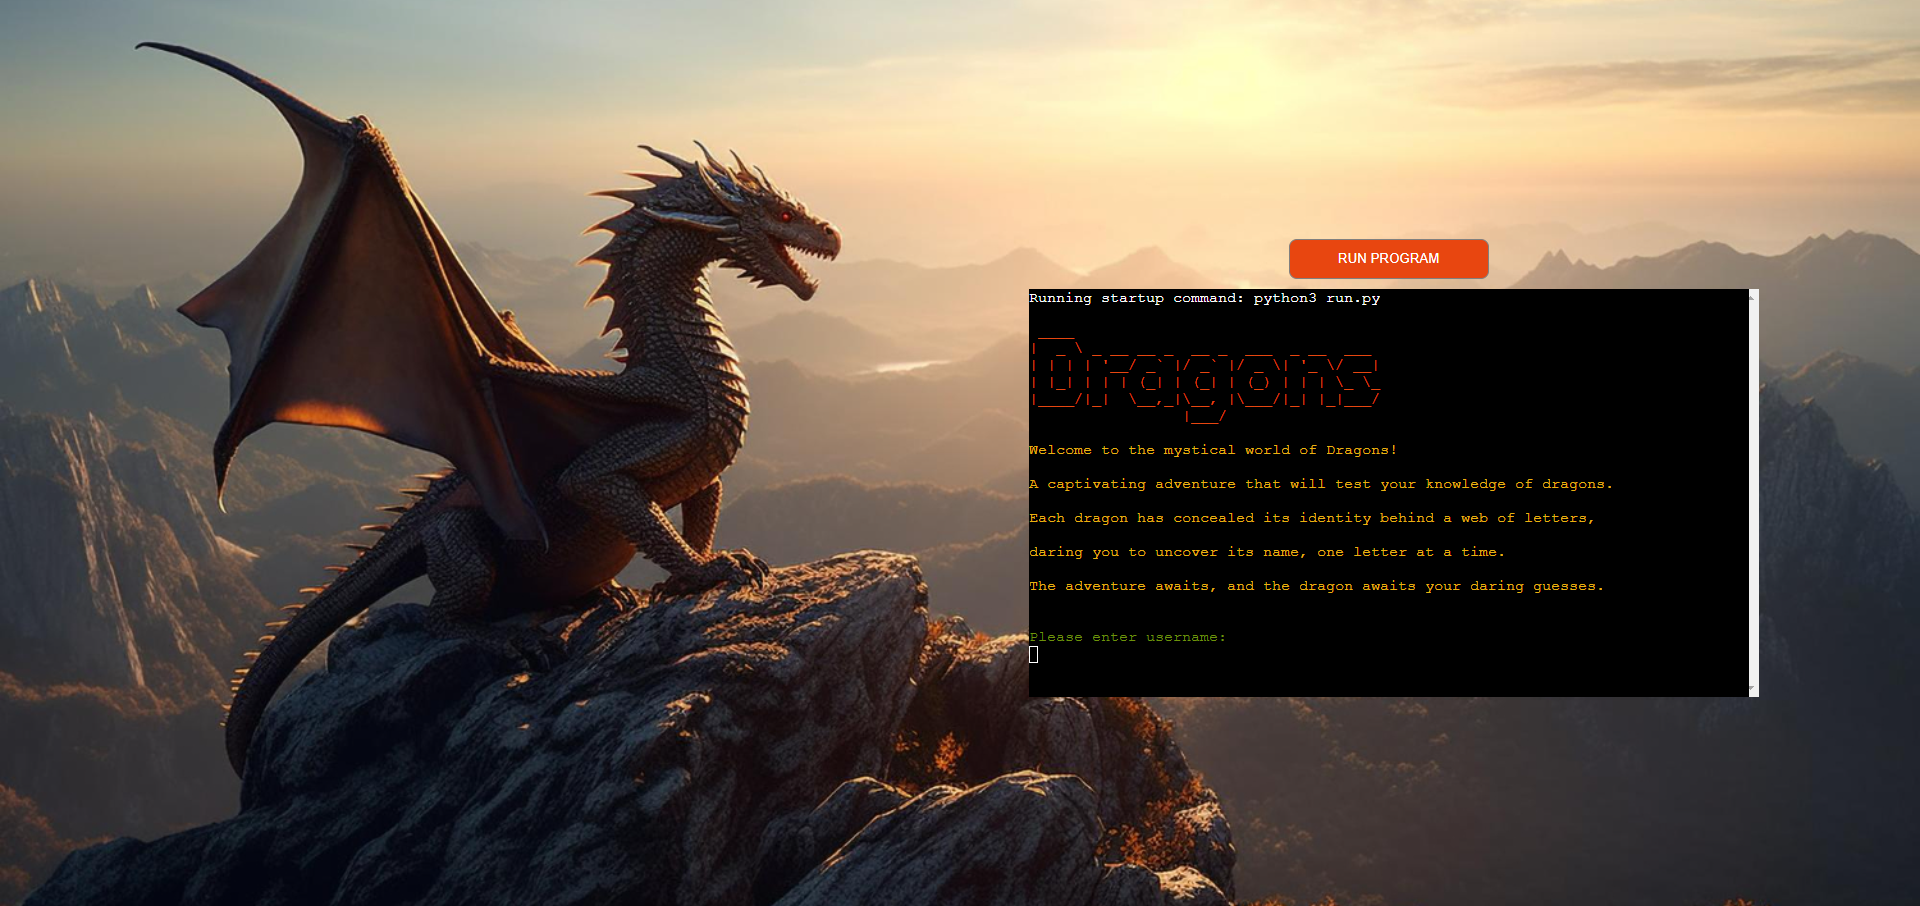
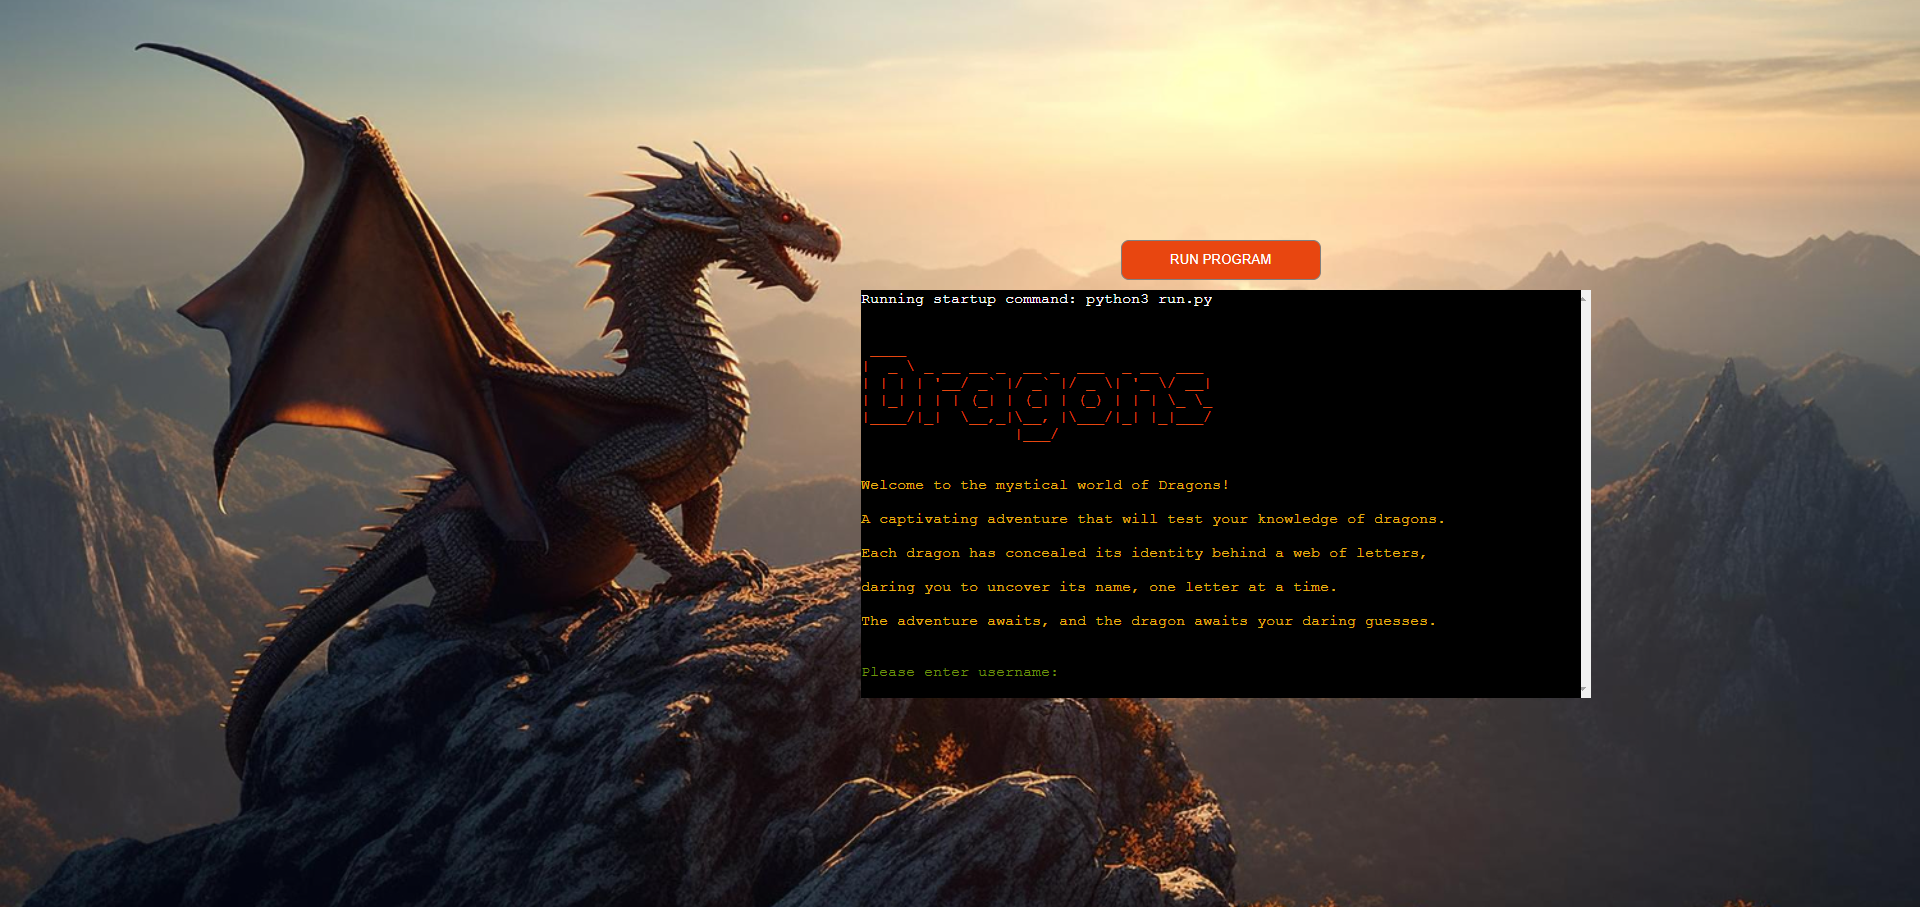
Update game rules and add to readme

diff --git a/views/layout.html b/views/layout.html
@@ -35,6 +35,7 @@
             justify-content: center;
             margin-left: 35em;
             margin-top: 0;
+            padding-left: 2em;
             position:relative
         }
 

diff --git a/run.py b/run.py
@@ -133,7 +133,7 @@ def game_rules(username):
               )
         print("")
         print(color["yellow"].apply_color
-              ("4.Guess one letter at a time")
+              ("4.Guess only one letter at a time")
               )
         print("")
         print(color["yellow"].apply_color
@@ -141,11 +141,11 @@ def game_rules(username):
               )
         print("")
         print(color["yellow"].apply_color
-              ("6.Correct guess will reveal the letter")
+              ("6.Correct guess will reveal the letter, no attempts taken off")
               )
         print("")
         print(color["yellow"].apply_color
-              ("7.Incorrect guess will add to attempt count")
+              ("7.Incorrect guess will decrease attempts by 1")
               )
         print("")
         print(color["yellow"].apply_color
@@ -321,6 +321,10 @@ def start_game(username, dragon):
     print("")
     print(color["green"].apply_color
           (f"You have {attempts} attempts to guess the name.")
+          )
+    print("")
+    print(color["green"].apply_color
+          ("Good luck!")
           )
     print("")
 

diff --git a/README.md b/README.md
@@ -57,38 +57,44 @@ I chose to create a dragon guessing game for this project inspired by my 5 year 
 
 ### **Lucidchart**
 
-I created a flowchart using [Lucidchart](https://lucid.co/?_gl=1*x824jw*_ga*MTQ0OTcxNjc5Ni4xNjk3NTYwMDUx*_ga_MPV5H3XMB5*MTY5NzYyMzg3Ny4zLjAuMTY5NzYyMzg3Ny42MC4wLjA.) website to help with a flow of the game.<br>
+I created a flowchart using [Lucidchart](https://lucid.co/?_gl=1*x824jw*_ga*MTQ0OTcxNjc5Ni4xNjk3NTYwMDUx*_ga_MPV5H3XMB5*MTY5NzYyMzg3Ny4zLjAuMTY5NzYyMzg3Ny42MC4wLjA.) website to help with a flow of the game, with some deviation during development to improve the game.<br>
+
 ![Lucidchart](docs/dragon_guessing_game.jpeg)
 
 ## **Features and Future Development**
 
 ### **Favicon**
 
-I originally created favicon using a vector from [Vecteezy](https://www.vecteezy.com/) website with an idea to recreate the look of a dragon eye and used [Faviconer](http://www.faviconer.com/) website to change it into favicon but soon after realized [Heroku](https://www.heroku.com/) doesn't host static files. During session with my mentor he explained how to use web hosted image so I used [Google](https://www.google.com/) to search for dragon's eye, I chose one from [Deviant Art](https://www.deviantart.com/christoskarapanos/art/Dragon-s-Eye-585971591) and added it succesfully to my project.
+I originally created favicon using a vector from [Vecteezy](https://www.vecteezy.com/) website with an idea to recreate the look of a dragon eye and used [Faviconer](http://www.faviconer.com/) website to change it into favicon but soon after realized [Heroku](https://www.heroku.com/) doesn't host static files. During session with my mentor he explained how to use web hosted image so I used [Google](https://www.google.com/) to search for dragon's eye and I chose one from [Deviant Art](https://www.deviantart.com/christoskarapanos/art/Dragon-s-Eye-585971591) and added it succesfully to my project.
 
 ### **Game intro**
 
-Welcomes user to 'Dragons' game with a short introduction and asks to enter username.
+Welcomes user to 'Dragons' game with a short introduction to intrigue them and asks to enter username.
+
 ![Game intro](docs/screenshots/game-intro.png)
 
 ### **Username entry / rules question**
 
 Once username has been entered correctly, asks if user would like to see the rules of the game. By entering 'yes', starts the game. If user enters 'no', returns to game intro screen.
+
 ![Username and rules](docs/screenshots/username-rules.png)
 
 ### **Username error messages**
 
-If user doesn't enter username accordingly to rules, shows error message.
+If user doesn't enter username accordingly to rules, shows appropriate error message.
+
 ![Username errors](docs/screenshots/username-errors.png)
 
 ### **Rules**
 
 Shows clearly written short rules of the game and asks if user would like to play.
+
 ![Rules](docs/screenshots/rules.png)
 
 ### **Guess messages**
 
-Shows a message after a guess is entered.
+Shows appropriate message after a guess is entered to let user know if he has guessed correct/ incorrect or input is invalid. If guess is incorrect, shows how many attempts to guess user has.
+
 ![Guess messages](docs/screenshots/guess-message.png)
 
 ### **Game won / lost**
@@ -96,19 +102,22 @@ Shows a message after a guess is entered.
 At the end, the game either congrats user or expresses sympathy for loss and shows dragon name revealed/ not guessed and it's description with a ASCII dragon art. Initially I wanted to clear the screen one game has finished before dragon name and description appears but decided to leave it as an option for user to be able to check guessing history.<br>
 
 I chose this cute and happy looking dragon ASCII art to show up when user wins the game, reminding me of a dragon from my childhood cartoon.
+
 ![Game won](docs/screenshots/game-won-ascii-art.png)
 
 This fire blowing dragon appears if user has lost the game. Be careful not to get burned to crisp!
+
 ![Game lost](docs/screenshots/game-lost-ascii-art.png)
 
 ### **Thank You message**
 
 Thanks user for visiting 'Dragons' game.
+
 ![Thank you message](docs/screenshots/thank-you-message.png)
 
 ### **Dragon ASCII art**
 
-Overall I got intrigued by ASCII art, amazingly never seen before.
+Overall I got intrigued by ASCII art, amazingly never seen before. I think together with colourful text it helped to create a visually appealing game that was my intention from planning stage.
 
 ![Dragon art game intro](docs/screenshots/game-intro-art.png)
 ![Dragon art game won](docs/screenshots/game-end-art.png)
